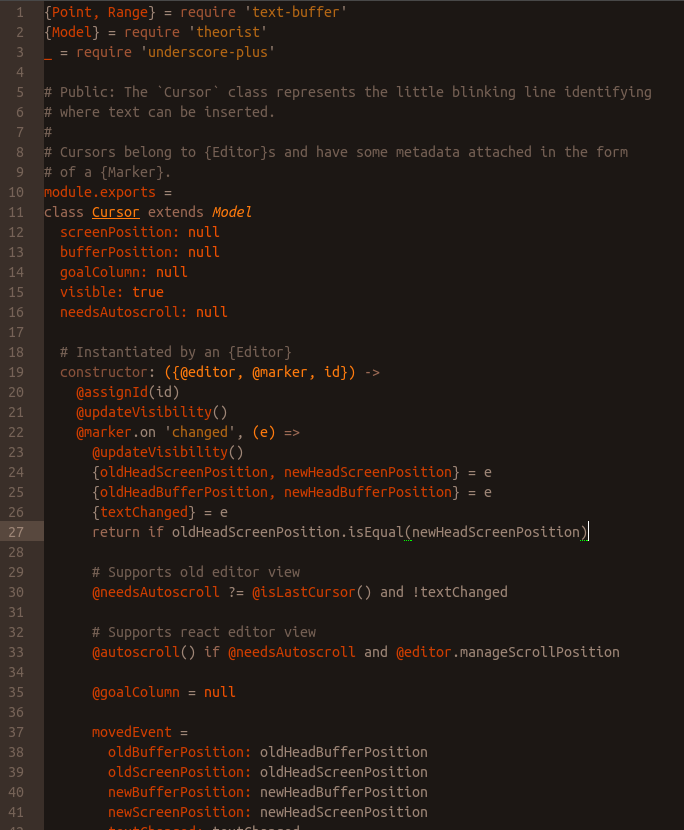
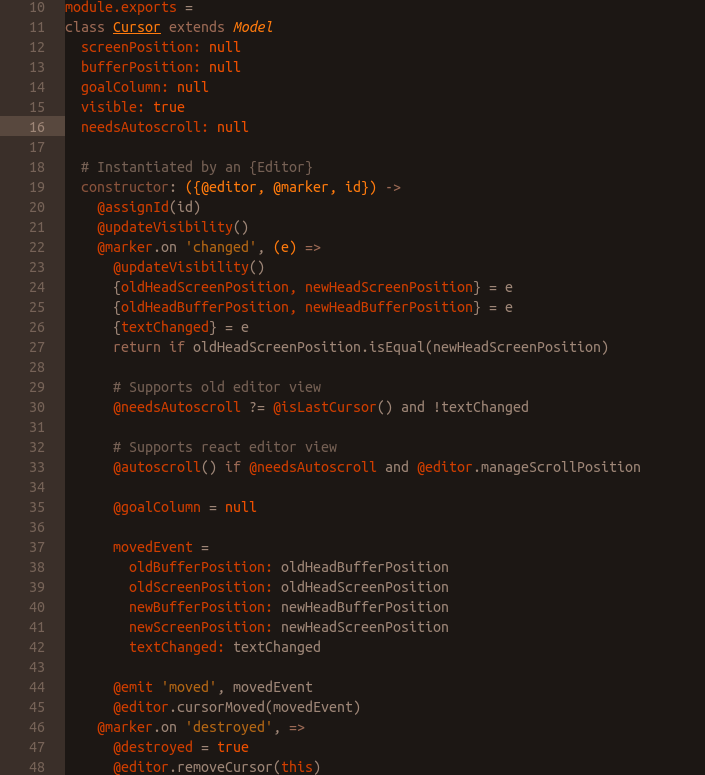
general tweaks and ruby/java language specifics

diff --git a/stylesheets/base.less b/stylesheets/base.less
@@ -49,6 +49,7 @@
 
   .cursor {
     color: @syntax-cursor-color;
+    font-style: bold;
   }
 
   .selection .region {
@@ -134,7 +135,7 @@
   &.parameter.function {
     color: @syntax-text-color;
 
-    &.function.coffee {
+    &.coffee {
       color: @light-orange
     }
   }
@@ -147,7 +148,6 @@
 
 .string {
   color: @green;
-
 
   &.regexp {
     color: @cyan;
@@ -168,7 +168,10 @@
       color: @light-gray;
     }
 
-    &.string,
+    &.string {
+      color: @green;
+    }
+
     &.variable,
     &.parameters,
     &.array {
@@ -191,10 +194,28 @@
     }
   }
 
-  &.section.embedded {
-    color: darken(@red, 10%);
+  &.section {
+    &.embedded {
+      color: darken(@red, 10%);
+    }
+
+    &.class,
+    &.method {
+      &.java {
+        color: @syntax-text-color;
+      }
+    }
   }
 
+  &.terminator.java {
+    color: @syntax-text-color;
+  }
+}
+
+.constant.other.symbol.ruby,
+.punctuation.definition.constant.ruby {
+  color: @very-light-orange;
+  font-style: italic;
 }
 
 .support {
@@ -239,9 +260,7 @@
 
   &.other.inherited-class {
     font-style: italic;
-    &.coffee {
-      color: @light-orange;
-    }
+    color: @light-orange;
   }
 }
 
@@ -264,6 +283,10 @@
 
   &.separator {
     background-color: @gray;
+    color: @syntax-text-color;
+  }
+
+  &.method.identifier.java {
     color: @syntax-text-color;
   }
 }

diff --git a/stylesheets/syntax-variables.less b/stylesheets/syntax-variables.less
@@ -5,7 +5,7 @@
 
 // General colors
 @syntax-text-color: @very-light-gray;
-@syntax-cursor-color: white;
+@syntax-cursor-color: lighten(@very-light-gray, 15%);
 @syntax-selection-color: lighten(@dark-gray, 10%);
 @syntax-background-color: @very-dark-gray;
 

diff --git a/stylesheets/colors.less b/stylesheets/colors.less
@@ -13,3 +13,4 @@
 @red: #d03e00;
 @orange: #f05000;
 @light-orange: #ff7b0e;
+@very-light-orange: #ffa109;

diff --git a/CHANGELOG.md b/CHANGELOG.md
@@ -1,3 +1,11 @@
-## 0.1.0 - First Release
+## v0.2.0
+* General formatting tweaks
+* Specific rules for Java added
+* Specific rules for Ruby added
+
+## v0.1.1
+* Fixed readme image preview
+
+## v0.1.0
 * Every feature added
 * Every bug fixed
